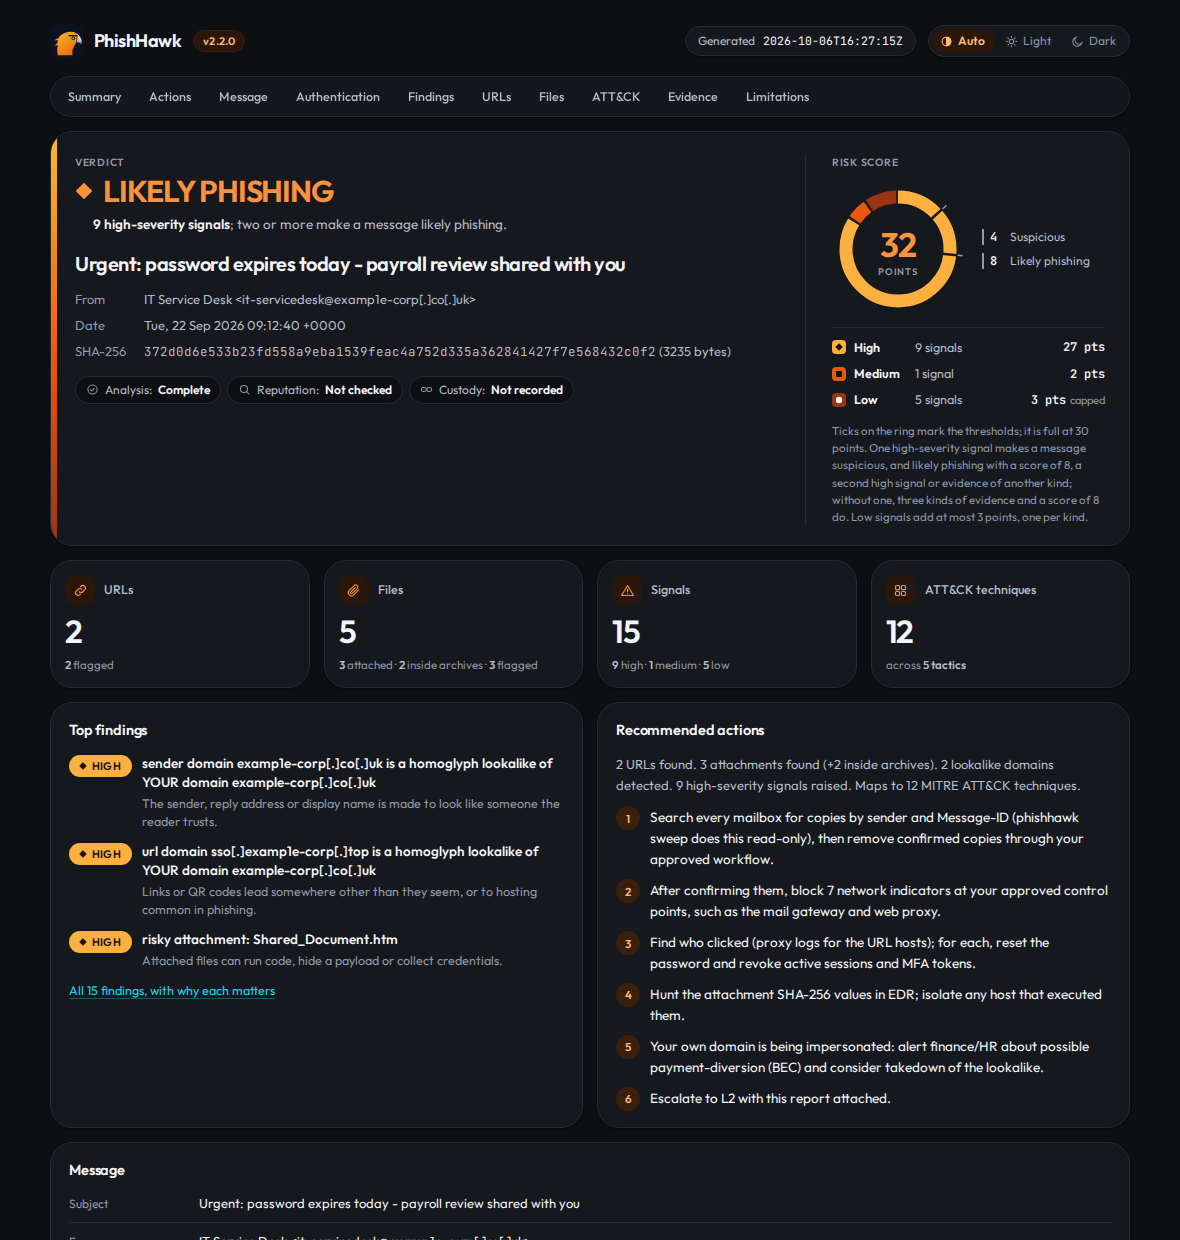
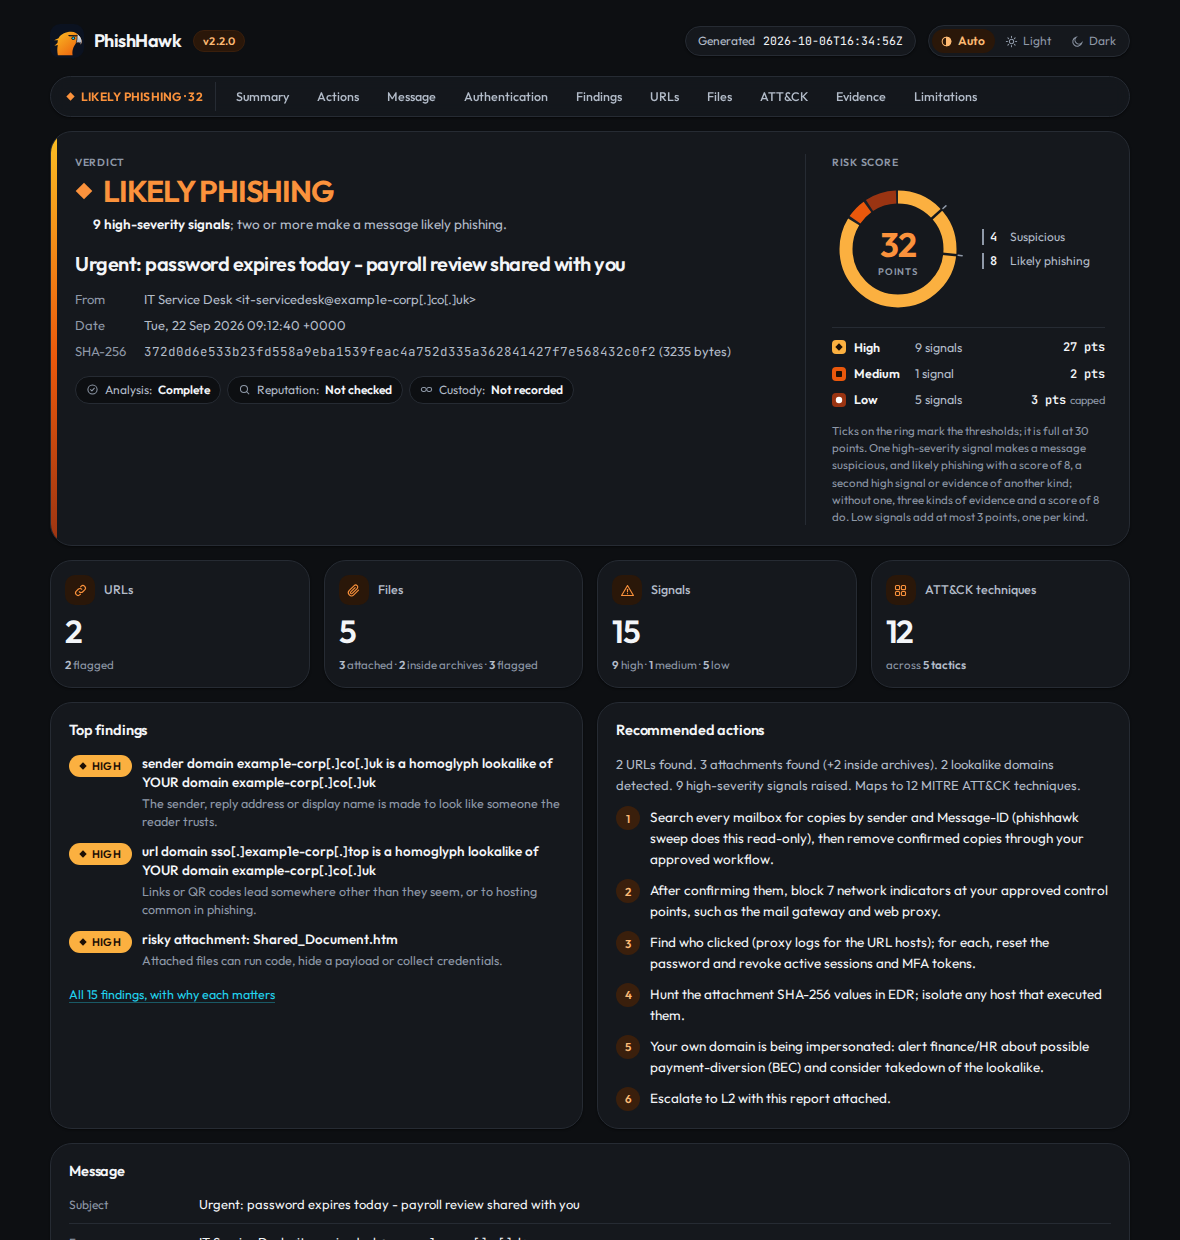
Fit the HTML report to phones, tablets and paper (#27)
The section links now keep the verdict and score in sight while scrolling;
on screens up to 900 px wide they fold into a Sections menu built on
<details>, so it still needs no script. On a tablet the score ring and its
legend sit side by side. Every control is at least 24 px tall, and 40 to
44 px on touch screens.

Each printed page's footer carries the verdict, the risk score, when the
report was made and the page number. Only fixed words, a number and the
report's own timestamp go into that CSS. Cards, findings and list items no
longer split across a page break.

Checked at 320, 375, 768, 1024 and 1440 px: no sideways scrolling and no
target under 24 px; page one of the printout still holds the summary for
all five samples.

diff --git a/src/phishhawk/report/html.py b/src/phishhawk/report/html.py
@@ -277,6 +277,23 @@ html{scroll-behavior:smooth}
 .secnav a{flex:0 0 auto;padding:5px 12px;border-radius:var(--r-full);font-size:12.5px;font-weight:500;
   color:var(--ink-2);text-decoration:none;white-space:nowrap}
 .secnav a:hover{background:var(--ground-2);color:var(--ink)}
+.nav-verdict{display:inline-flex;align-items:center;gap:6px;flex:0 0 auto;padding:5px 12px 5px 10px;
+  font:650 12px var(--sans);letter-spacing:.02em;white-space:nowrap}
+.secnav .nav-verdict{border-right:1px solid var(--line);margin-right:4px}
+.nav-verdict svg{width:9px;height:9px;fill:currentColor}
+.secmenu{display:none;position:sticky;top:8px;z-index:5;border:1px solid var(--line);border-radius:var(--r);
+  box-shadow:var(--shade-sm);background:color-mix(in srgb,var(--paper) 94%,transparent);
+  -webkit-backdrop-filter:blur(8px);backdrop-filter:blur(8px)}
+.secmenu summary{display:flex;align-items:center;gap:10px;min-height:44px;padding:0 8px 0 4px;cursor:pointer;
+  list-style:none;border-radius:var(--r)}
+.secmenu summary::-webkit-details-marker{display:none}
+.secmenu summary:focus-visible,.secmenu a:focus-visible{outline:2px solid var(--brand);outline-offset:-2px}
+.secmenu .menu-label{margin-left:auto;padding:6px 10px;font-size:12.5px;font-weight:600;color:var(--ink-2)}
+.secmenu .menu-label::after{content:" \\25BE"}
+.secmenu[open] .menu-label::after{content:" \\25B4"}
+.secmenu nav{display:grid;grid-template-columns:repeat(auto-fill,minmax(130px,1fr));gap:4px;padding:4px 8px 10px}
+.secmenu a{display:flex;align-items:center;min-height:40px;padding:0 10px;border-radius:var(--r-sm);
+  font-size:13px;color:var(--ink-2);text-decoration:none;background:var(--ground)}
 section.msg [id]{scroll-margin-top:64px}
 .panel:target,.hero:target{outline:2px solid var(--brand);outline-offset:2px}
 
@@ -350,6 +367,7 @@ h2{font-size:14.5px;font-weight:600;letter-spacing:-.01em;margin:0}
 .steps li{counter-increment:step}
 /* each action is a checkbox: the analyst can tick it off; nothing is sent or saved */
 .steps label{display:grid;grid-template-columns:24px minmax(0,1fr);gap:10px;align-items:start;font-size:13.5px;
+  min-height:24px;
   cursor:pointer}
 .steps input{position:absolute;width:1px;height:1px;margin:0;opacity:0}
 .steps .n{width:24px;height:24px;border-radius:var(--r-full);display:grid;place-items:center;
@@ -362,7 +380,7 @@ h2{font-size:14.5px;font-weight:600;letter-spacing:-.01em;margin:0}
 .check{margin-top:4px;font-size:12px;color:var(--ink-2)}
 .check b{font-weight:600}
 .calc{margin:0 0 12px;border:1px solid var(--line);border-radius:var(--r);padding:8px 12px}
-.calc summary{cursor:pointer;font-size:12.5px;font-weight:600;color:var(--ink-2)}
+.calc summary{cursor:pointer;padding:4px 0;font-size:12.5px;font-weight:600;color:var(--ink-2)}
 .calc summary:focus-visible{outline:2px solid var(--brand);outline-offset:2px;border-radius:4px}
 .calc[open] summary{margin-bottom:8px}
 .calc .summary{margin:10px 0 0}
@@ -402,6 +420,7 @@ mark{background:var(--brand-wash-2);color:var(--brand-ink-2);border-radius:3px;p
 .top li>div>b{display:block;font-size:13.5px;font-weight:550;line-height:1.4;overflow-wrap:anywhere}
 .top li>div>span{display:block;margin-top:2px;font-size:12.5px;color:var(--ink-3);line-height:1.45}
 .more{margin:12px 0 0;font-size:12.5px}
+.more a{display:inline-block;padding:4px 0}
 .caution{background:var(--amber-wash);border-color:color-mix(in srgb,var(--amber) 35%,transparent)}
 .limits{margin:0;padding-left:18px;display:grid;gap:6px;font-size:13px;color:var(--ink-2)}
 
@@ -420,7 +439,8 @@ mark{background:var(--brand-wash-2);color:var(--brand-ink-2);border-radius:3px;p
 .b-ok{background:var(--sev-ok-bg);color:var(--sev-ok)}
 .t-critical{color:var(--sev-critical)}.t-high{color:var(--brand-ink)}.t-medium{color:var(--amber-ink)}
 .t-ok{color:var(--sev-ok)}.t-info{color:var(--ink-3)}
-.chip{display:inline-block;font:500 11.5px var(--mono);padding:2px 8px;margin:0 4px 4px 0;
+.chip{display:inline-flex;align-items:center;min-height:24px;font:500 11.5px var(--mono);padding:2px 8px;
+  margin:0 4px 4px 0;
   border-radius:var(--r-full);background:var(--ground-2);border:1px solid var(--line-2);
   color:var(--ink);text-decoration:none;white-space:nowrap}
 .chip:hover{border-color:var(--brand)}
@@ -488,8 +508,14 @@ footer p{margin:0;max-width:880px}
 footer b{color:var(--ink-2);font-weight:600}
 
 @media (max-width:900px){
+  .secnav{display:none}
+  .secmenu{display:block}
   .hero{grid-template-columns:minmax(0,1fr)}
-  .hero-side{padding:16px 0 0;border-left:0;border-top:1px solid var(--line)}
+  /* tablet: the ring and its legend side by side under the verdict */
+  .hero-side{padding:16px 0 0;border-left:0;border-top:1px solid var(--line);
+    grid-template-columns:max-content minmax(0,1fr);column-gap:32px;align-items:center}
+  .hero-side>.label,.ring-note{grid-column:1/-1}
+  .hero-side .legend{border-top:0;padding-top:0}
   .tactics{grid-template-columns:repeat(4,minmax(0,1fr))}
 }
 @media (max-width:760px){
@@ -500,6 +526,8 @@ footer b{color:var(--ink-2);font-weight:600}
 }
 @media (max-width:560px){
   .wrap{padding:16px 12px 40px}
+  .hero-side{grid-template-columns:minmax(0,1fr)}
+  .hero-side .legend{border-top:1px solid var(--line);padding-top:10px}
   .pair{grid-template-columns:minmax(0,1fr);gap:4px}
   .pair .arrow{transform:rotate(90deg);justify-self:start}
   .kpi .val{font-size:26px}
@@ -526,6 +554,14 @@ footer b{color:var(--ink-2);font-weight:600}
   .flagged td:first-child{box-shadow:none}
   .flagged{border-left:3px solid var(--brand)}
 }
+@media (pointer:coarse){
+  .secnav a{padding:10px 14px}
+  .secmenu a{min-height:44px}
+  .theme label{padding:8px 12px 8px 10px}
+  .calc summary{padding:10px 0}
+  .chip{min-height:32px;padding:4px 10px}
+  .more a{padding:10px 0}
+}
 @media (prefers-reduced-motion:reduce){*{transition:none!important}html{scroll-behavior:auto}}
 @media (forced-colors:active){
   .badge,.sevbar span,.chip,.tag,.idx,.legend .sw,.tactics li{border:1px solid CanvasText}
@@ -535,7 +571,6 @@ footer b{color:var(--ink-2);font-weight:600}
 
 /* Print: A4, paper white, the summary on page one and the evidence after it. */
 @page{size:A4;margin:10mm 10mm 14mm;
-  @bottom-left{content:"PhishHawk triage report";font:9pt "Outfit",sans-serif;color:#646c78}
   @bottom-right{content:"Page " counter(page) " of " counter(pages);font:9pt "Outfit",sans-serif;color:#646c78}}
 @media print{
   body{background:#fff;font-size:12px;line-height:1.45}
@@ -569,7 +604,9 @@ footer b{color:var(--ink-2);font-weight:600}
   .urlcard,.looks li{padding:8px 10px}
   .u-facts{margin-top:6px}
   .techs li{padding:7px 9px}
-  .secnav{display:none}
+  .secnav,.secmenu{display:none}
+  .limits li,.top li,.u-facts>div,.align{break-inside:avoid}
+  .tgroup h3{break-after:avoid}
   .top{gap:7px}
   .top li>div>b{font-size:12px}
   .top li>div>span{font-size:11px}
@@ -825,7 +862,14 @@ def _nav(a: Analysis, anchor: str, files: list[FileIoc]) -> str:
     present = {"findings": bool(a.signals), "urls": bool(a.urls), "attack": bool(a.techniques)}
     links = "".join('<a href="#%s-%s">%s</a>' % (anchor, key, title)
                     for key, title in NAV if present.get(key, True))
-    return '<nav class="secnav" aria-label="Report sections">%s</nav>' % links
+    level = VERDICT_LEVEL.get(a.verdict, "ok")
+    verdict = '<span class="nav-verdict t-%s">%s%s &middot; %d</span>' % (
+        level, _svg(GLYPHS[level]), escape(a.verdict), a.score)
+    # Wide screens get a bar; narrow ones the same links folded into a menu.
+    # Either way the verdict stays in sight while scrolling, without a script.
+    return ('<nav class="secnav" aria-label="Report sections">%s%s</nav>'
+            '<details class="secmenu"><summary>%s<span class="menu-label">Sections</span></summary>'
+            '<nav aria-label="Report sections">%s</nav></details>' % (verdict, links, verdict, links))
 
 
 def _kpis(a: Analysis, files: list[FileIoc]) -> str:
@@ -1275,6 +1319,19 @@ def _batch(analyses: list[Analysis]) -> str:
     return _panel("Batch (%d messages)" % len(analyses), table, cls="batch")
 
 
+def _page_css(analyses: list[Analysis], generated: str) -> str:
+    """The printed page's footer: what the report is about and when it was
+    made, on every page. Only fixed words, a number and our own timestamp go
+    into the CSS, never message text."""
+    if len(analyses) == 1:
+        what = "%s \\00B7  risk score %d" % (analyses[0].verdict, analyses[0].score)
+    else:
+        what = "%d messages" % len(analyses)
+    return ('@page{@bottom-left{content:"PhishHawk \\00B7  %s";font:9pt "Outfit",sans-serif;color:#646c78}'
+            '@bottom-center{content:"Generated %s";font:9pt "Outfit",sans-serif;color:#646c78}}'
+            % (what, generated))
+
+
 def _theme_switch() -> str:
     return '<div class="theme" role="radiogroup" aria-label="Colour theme">%s</div>' % "".join(
         '<input type="radio" name="theme" id="theme-%s"%s><label for="theme-%s" title="%s">%s%s</label>'
@@ -1306,4 +1363,4 @@ def render(analyses: list[Analysis]) -> str:
             "<meta name=\"referrer\" content=\"no-referrer\">"
             "<meta name=\"color-scheme\" content=\"light dark\">"
             "<title>%s</title><style>%s\n%s</style></head><body>%s</body></html>\n"
-            % (escape(title), font_faces(), THEMES + CSS, "\n".join(body)))
+            % (escape(title), font_faces(), THEMES + CSS + _page_css(analyses, generated), "\n".join(body)))

diff --git a/tests/test_reports.py b/tests/test_reports.py
@@ -169,7 +169,7 @@ def test_html_section_navigation_works_without_a_script(phish):
         assert 'id="msg-1-%s"' % key in page
     assert 'id="msg-2-summary"' in page  # every message has its own anchors
     assert page.count('<nav class="secnav"') == 2
-    assert ".secnav{display:none}" in page.split("@media print{", 1)[1]
+    assert ".secnav,.secmenu{display:none}" in page.split("@media print{", 1)[1]
     assert "<script" not in page
 
 
@@ -348,3 +348,33 @@ def test_html_has_no_control_characters(bec):
     page = html.render([bec])
     assert not re.search(r"[\x00-\x08\x0b\x0c\x0e-\x1f\x7f]", page)
     assert 'content:"\\2197"' in page and 'content:"\\2713"' in page
+
+
+def test_html_keeps_the_verdict_in_sight_while_scrolling(phish):
+    page = html.render([phish])
+    bar = _between(page, '<nav class="secnav" aria-label="Report sections">', "</nav>")
+    assert '<span class="nav-verdict t-high">' in bar and "LIKELY PHISHING &middot; %d" % phish.score in bar
+    # on a phone or tablet the same links fold into a menu that needs no script
+    menu = _between(page, '<details class="secmenu">', "</details>")
+    assert "<summary>" in menu and "LIKELY PHISHING &middot; %d" % phish.score in menu
+    assert '<nav aria-label="Report sections">' in menu and 'href="#msg-1-limits"' in menu
+    narrow = page.split("@media (max-width:900px){", 1)[1].split("\n}", 1)[0]
+    assert ".secnav{display:none}" in narrow and ".secmenu{display:block" in narrow
+    assert ".secnav,.secmenu{display:none}" in page.split("@media print{", 1)[1]
+
+
+def test_html_print_pages_carry_the_verdict_time_and_page_numbers(phish):
+    benign = triage_file(sample("sample_benign.eml"))
+    page = html.render([phish])
+    generated = re.search(r'Generated <span class="mono">([0-9TZ:-]+)</span>', page).group(1)
+    assert '@bottom-left{content:"PhishHawk \\00B7  LIKELY PHISHING \\00B7  risk score %d"' % phish.score in page
+    assert '@bottom-center{content:"Generated %s"' % generated in page
+    assert '@bottom-right{content:"Page " counter(page) " of " counter(pages)' in page
+    assert '@bottom-left{content:"PhishHawk \\00B7  2 messages"' in html.render([phish, benign])
+
+
+def test_html_controls_are_big_enough_to_tap(phish):
+    page = html.render([phish])
+    assert ".chip{display:inline-flex;align-items:center;min-height:24px" in page
+    coarse = page.split("@media (pointer:coarse){", 1)[1].split("\n}", 1)[0]
+    assert ".secmenu a{min-height:44px}" in coarse and ".secnav a{padding:10px 14px}" in coarse

diff --git a/README.md b/README.md
@@ -370,7 +370,7 @@ means an input could not be read or a report could not be written.
 | Flag | Best for | Notes |
 |---|---|---|
 | *(default)* | The analyst | Colour terminal report. `--quiet` gives one block per mail; `--verbose` shows everything. |
-| `--html PATH` | The ticket, L2, a manager | Self-contained, in the IntelPulse console's design and the PhishHawk logo's amber-orange. Decisions come first: the verdict and why, whether the analysis was complete, the top three findings and the recommended actions. Then each part of the evidence in its own section (message, authentication with each check and where it was read, findings with why each matters and what to check, URLs, files, ATT&CK, reputation, evidence and provenance, limitations), with section links at the top. The actions are a checklist to tick off, a disclosure shows how every signal added to the score, each URL is a card with where it was found and what was checked, a lookalike is shown beside the domain it imitates with the changed characters marked, and ATT&CK groups techniques under all 14 tactics, marked observed, not observed or not assessed. A score ring shows where the risk score came from, split by severity, with the verdict thresholds marked. Opens in the reader's light or dark mode, and an Auto / Light / Dark switch changes it without a script. Prints to A4 with page numbers: the summary on page one, the evidence from a fresh page after it. A strict Content-Security-Policy blocks scripts and network access, every value is escaped, and malicious URLs are never clickable. |
+| `--html PATH` | The ticket, L2, a manager | Self-contained, in the IntelPulse console's design and the PhishHawk logo's amber-orange. Decisions come first: the verdict and why, whether the analysis was complete, the top three findings and the recommended actions. Then each part of the evidence in its own section (message, authentication with each check and where it was read, findings with why each matters and what to check, URLs, files, ATT&CK, reputation, evidence and provenance, limitations), with section links at the top that keep the verdict in sight while scrolling (on phones and tablets they fold into a Sections menu, still without a script). The actions are a checklist to tick off, a disclosure shows how every signal added to the score, each URL is a card with where it was found and what was checked, a lookalike is shown beside the domain it imitates with the changed characters marked, and ATT&CK groups techniques under all 14 tactics, marked observed, not observed or not assessed. A score ring shows where the risk score came from, split by severity, with the verdict thresholds marked. Opens in the reader's light or dark mode, and an Auto / Light / Dark switch changes it without a script. Prints to A4: the summary on page one, the evidence from a fresh page after it, and on every page a footer with the verdict, the risk score, when the report was made and the page number. Cards and rows never split across a page break. A strict Content-Security-Policy blocks scripts and network access, every value is escaped, and malicious URLs are never clickable. |
 | `--json PATH` | SOAR playbooks, scripts | Verdict, score, signals, techniques, indicators and actions, in a format published as a [JSON Schema](docs/report.schema.json). Message bodies are left out. |
 | `--stix PATH` | OpenCTI, Sentinel TI | STIX 2.1 bundle, validated against the official `stix2` library in CI. IDs are deterministic, so one URL reported by fifty users imports as one indicator. |
 | `--misp PATH` | MISP | A MISP event per message: every indicator as an attribute, an email object, ATT&CK galaxy tags and a TLP tag. |
@@ -379,7 +379,7 @@ means an input could not be read or a report could not be written.
 
 <picture>
   <source media="(prefers-color-scheme: dark)" srcset="docs/images/report-dark.png">
-  <img alt="The HTML report for the BEC sample: section links at the top; the verdict and why, the sender, date and SHA-256, and whether the analysis was complete, reputation was checked and custody was recorded; the risk score ring split into high, medium and low points; counts of URLs, files, signals and ATT&CK techniques; the top three findings, each with why it matters, beside the recommended actions; then the message details" src="docs/images/report-light.png" width="760">
+  <img alt="The HTML report for the BEC sample: section links at the top, led by the verdict and score; the verdict and why, the sender, date and SHA-256, and whether the analysis was complete, reputation was checked and custody was recorded; the risk score ring split into high, medium and low points; counts of URLs, files, signals and ATT&CK techniques; the top three findings, each with why it matters, beside the recommended actions; then the message details" src="docs/images/report-light.png" width="760">
 </picture>
 
 <p align="center">

diff --git a/CHANGELOG.md b/CHANGELOG.md
@@ -34,6 +34,15 @@ the JSON and STIX output are the public interface.
   observed, not observed or not assessed (what happens after delivery, such
   as persistence, cannot be seen in a message). Links to VirusTotal and
   MITRE say that they open in a new tab.
+- **HTML report: phones, tablets and paper.** The section links keep the
+  verdict and score in sight while scrolling; on screens up to 900 px wide
+  they fold into a "Sections" menu (`<details>`, no script). On a tablet
+  the score ring and its legend sit side by side. Every control is at
+  least 24 px tall, and 40 to 44 px on touch screens. Each printed page's
+  footer carries the verdict, the risk score, when the report was made and
+  the page number, and cards, findings and list items no longer split
+  across a page break. Checked at 320, 375, 768, 1024 and 1440 px: no
+  sideways scrolling.
 - **JSON:** `analysis_status` (`complete` or `incomplete` with the reasons;
   reputation `checked`, `partially checked` or `not checked`),
   `limitations[]`, and `auth_header`, `auth_receiver` and `auth_pinned`
